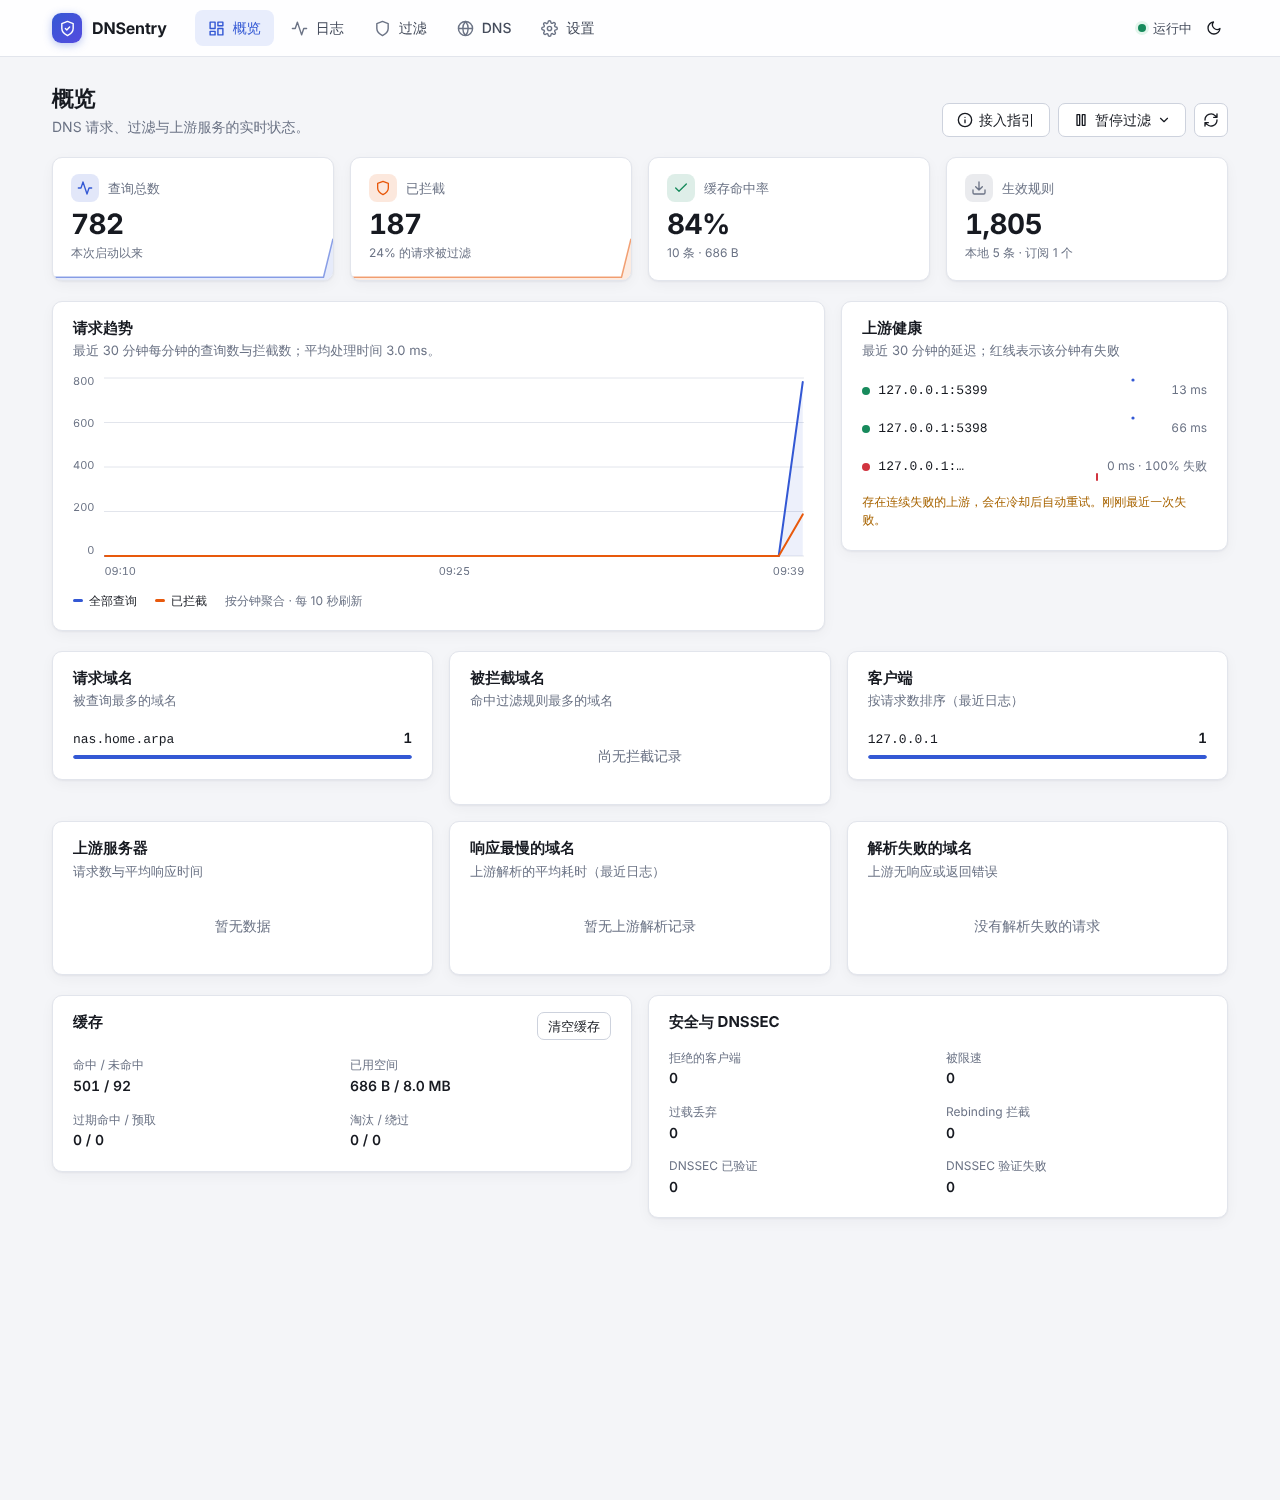
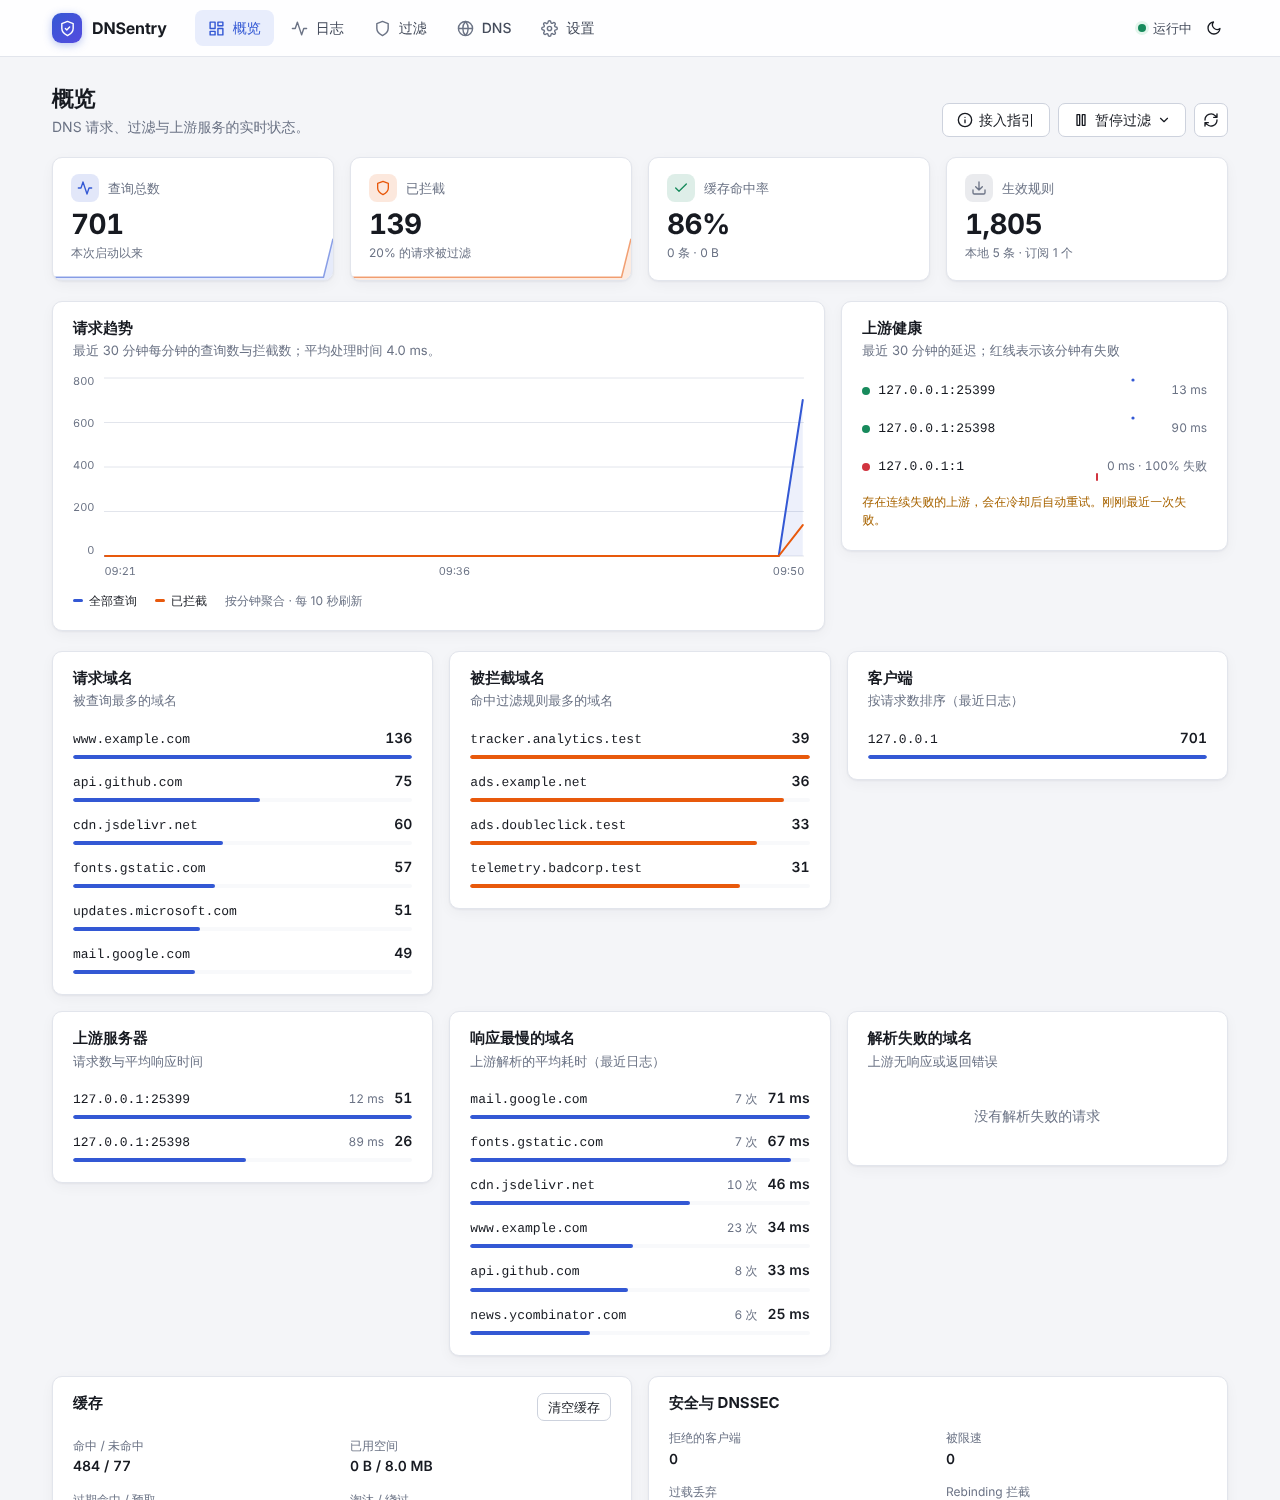
Add a reproducible screenshot script; keep the query log with minimal configs
scripts/screenshots.mjs (pnpm screenshots) starts a throw-away demo instance
with a fake upstream and generated traffic and regenerates docs/images.

A config without logging settings previously ended up with a zero-size
in-memory log (empty dashboard rankings) and a query log path relative to the
working directory; both now default sensibly. Config history also treats a key
that is empty or equal to its default in only one file as unchanged.

Claude-Session: https://claude.ai/code/session_01LJavBCZTbk8fXT7uQomYob

diff --git a/internal/app/config_history.go b/internal/app/config_history.go
@@ -139,14 +139,19 @@ func configChanges(newer, older []byte) []string {
 		defaultData, _ := yaml.Marshal(newYAMLConfig(config))
 		defaults = flattenYAML(defaultData)
 	}
-	value := func(flat map[string]any, key string) any {
-		if v, ok := flat[key]; ok {
-			return v
+	// A key present in only one file is unchanged when it holds an empty value
+	// or the default: that is what the other file means by leaving it out.
+	same := func(key string) bool {
+		left, leftOK := after[key]
+		right, rightOK := before[key]
+		switch {
+		case leftOK && rightOK:
+			return (emptyConfigValue(left) && emptyConfigValue(right)) || reflect.DeepEqual(left, right)
+		case leftOK:
+			return emptyConfigValue(left) || reflect.DeepEqual(left, defaults[key])
+		default:
+			return emptyConfigValue(right) || reflect.DeepEqual(right, defaults[key])
 		}
-		return defaults[key]
-	}
-	same := func(left, right any) bool {
-		return (emptyConfigValue(left) && emptyConfigValue(right)) || reflect.DeepEqual(left, right)
 	}
 	keys := make([]string, 0)
 	seen := map[string]struct{}{}
@@ -156,7 +161,7 @@ func configChanges(newer, older []byte) []string {
 				continue
 			}
 			seen[key] = struct{}{}
-			if !same(value(after, key), value(before, key)) {
+			if !same(key) {
 				keys = append(keys, key)
 			}
 		}

diff --git a/internal/app/config_storage.go b/internal/app/config_storage.go
@@ -15,7 +15,14 @@ import (
 	"github.com/teliso/DNSentry/internal/fsutil"
 )
 
-const maxConfiguredUpstreams = 32
+const (
+	maxConfiguredUpstreams = 32
+	defaultQueryLogSize    = 1000
+)
+
+// defaultQueryLogFile is where the query log goes unless configured: next to
+// the configuration file.
+func defaultQueryLogFile() string { return filepath.Join(filepath.Dir(configPath()), "querylog") }
 
 // configFile is the YAML configuration path; Run may override it once at startup.
 var configFile = filepath.Join("data", "config.yaml")
@@ -43,8 +50,8 @@ func defaultConfig() *Config {
 		RulesFile:             filepath.Join(dir, "rules.txt"),
 		CacheEnabled:          true,
 		CacheSize:             4 << 20,
-		QueryLogSize:          1000,
-		QueryLogFile:          filepath.Join(dir, "querylog"),
+		QueryLogSize:          defaultQueryLogSize,
+		QueryLogFile:          defaultQueryLogFile(),
 		QueryLogRetentionDays: 7,
 		Access:                DNSAccessConfig{MaxConcurrentQueries: 2048},
 		Encryption:            EncryptionConfig{DNSCrypt: DNSCryptConfig{ProviderName: "dnsentry", CertificateTTLHours: 24}},

diff --git a/internal/app/configfile_test.go b/internal/app/configfile_test.go
@@ -345,3 +345,18 @@ func TestLegacySingleListenKeysAreReadButNeverWritten(t *testing.T) {
 		t.Errorf("legacy single-address keys were written back:\n%s", out)
 	}
 }
+
+func TestMinimalConfigKeepsQueryLog(t *testing.T) {
+	var fileConfig yamlConfig
+	minimal := "version: 1\ndns:\n  listens: [':15353']\n  upstreams: ['1.1.1.1:53']\nweb:\n  listen: ':18080'\nrules:\n  local_file: data/rules.txt\n"
+	if err := yaml.Unmarshal([]byte(minimal), &fileConfig); err != nil {
+		t.Fatal(err)
+	}
+	validated, err := validateConfig(fileConfig.toConfig())
+	if err != nil {
+		t.Fatal(err)
+	}
+	if validated.QueryLogSize != defaultQueryLogSize || validated.QueryLogFile != defaultQueryLogFile() {
+		t.Fatalf("a config without logging settings lost its query log: size=%d file=%q", validated.QueryLogSize, validated.QueryLogFile)
+	}
+}

diff --git a/internal/app/config_history_test.go b/internal/app/config_history_test.go
@@ -124,6 +124,12 @@ func TestConfigChangesIgnoreMaterializedDefaults(t *testing.T) {
 	if changes := configChanges(newer, older); len(changes) != 0 {
 		t.Fatalf("defaults written by a newer version were reported as changes: %v", changes)
 	}
+	// An explicitly empty value is the same as a missing key.
+	config.Encryption.DNSCrypt.ProviderName = ""
+	blank, _ := yaml.Marshal(newYAMLConfig(config))
+	if changes := configChanges(blank, older); len(changes) != 0 {
+		t.Fatalf("empty values reported as changes: %v", changes)
+	}
 	config.BlockAAAA = true
 	changed, _ := yaml.Marshal(newYAMLConfig(config))
 	if changes := configChanges(changed, older); len(changes) != 1 || changes[0] != "dns.block_aaaa" {

diff --git a/internal/app/config_validation.go b/internal/app/config_validation.go
@@ -5,7 +5,6 @@ import (
 	"fmt"
 	"net"
 	"net/url"
-	"path/filepath"
 	"strconv"
 	"strings"
 
@@ -48,9 +47,12 @@ func validateConfig(config *Config) (*Config, error) {
 	if config.CacheSize == 0 {
 		config.CacheSize = 4 << 20
 	}
+	if config.QueryLogSize <= 0 {
+		config.QueryLogSize = defaultQueryLogSize
+	}
 	config.QueryLogFile = strings.TrimSpace(config.QueryLogFile)
 	if config.QueryLogFile == "" {
-		config.QueryLogFile = filepath.Join("data", "querylog")
+		config.QueryLogFile = defaultQueryLogFile()
 	}
 	if config.QueryLogRetentionDays == 0 {
 		config.QueryLogRetentionDays = 7

diff --git a/internal/app/config_format.go b/internal/app/config_format.go
@@ -1,7 +1,6 @@
 package app
 
 import (
-	"path/filepath"
 	"strings"
 
 	"github.com/teliso/DNSentry/internal/rules"
@@ -74,7 +73,7 @@ func (f yamlConfig) toConfig() *Config {
 	}
 	queryLogFile := strings.TrimSpace(f.Logging.QueryLogFile)
 	if queryLogFile == "" {
-		queryLogFile = filepath.Join("data", "querylog")
+		queryLogFile = defaultQueryLogFile()
 	}
 	queryLogRetentionDays := f.Logging.QueryLogRetentionDays
 	if queryLogRetentionDays == 0 {
